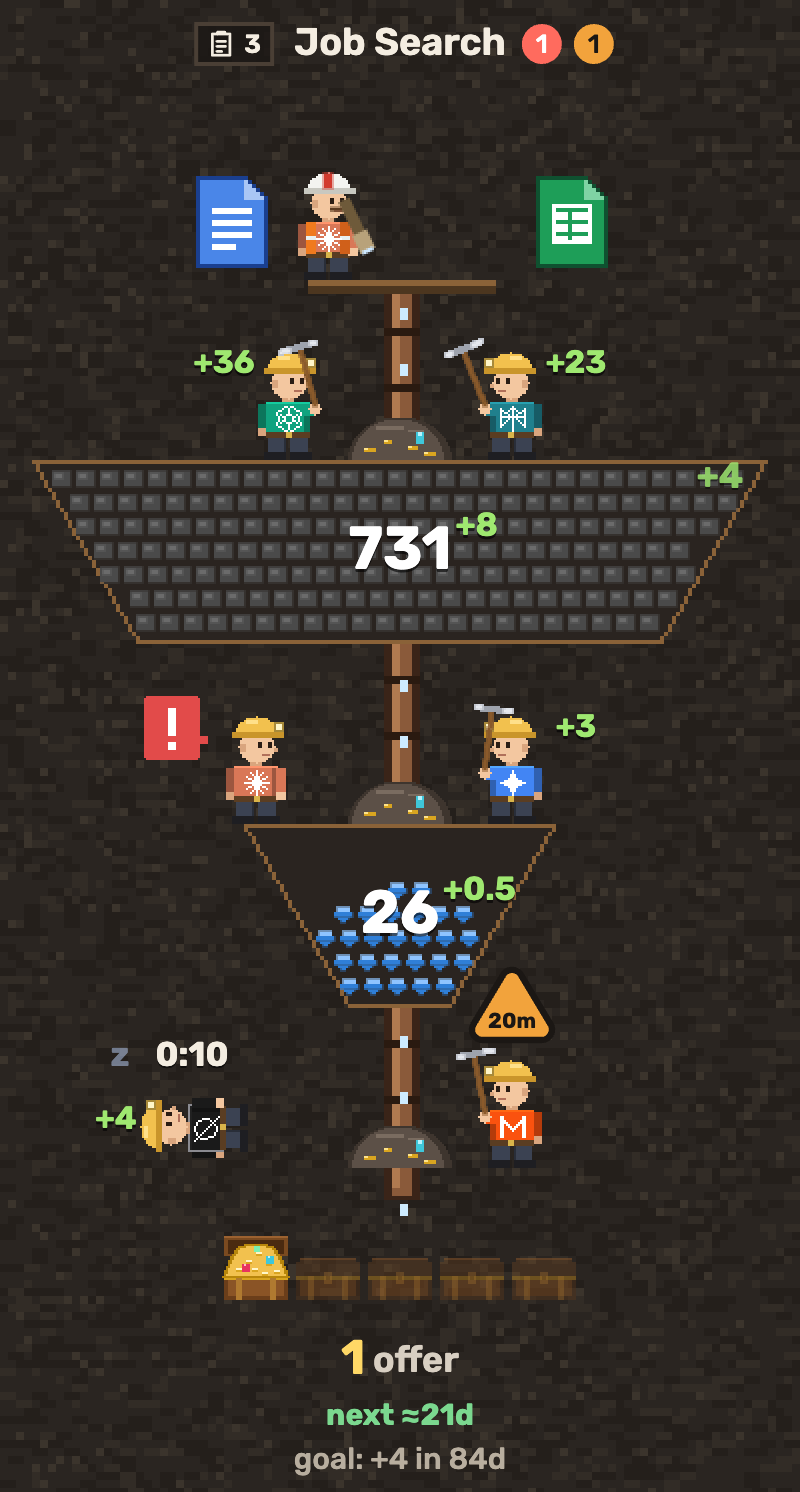
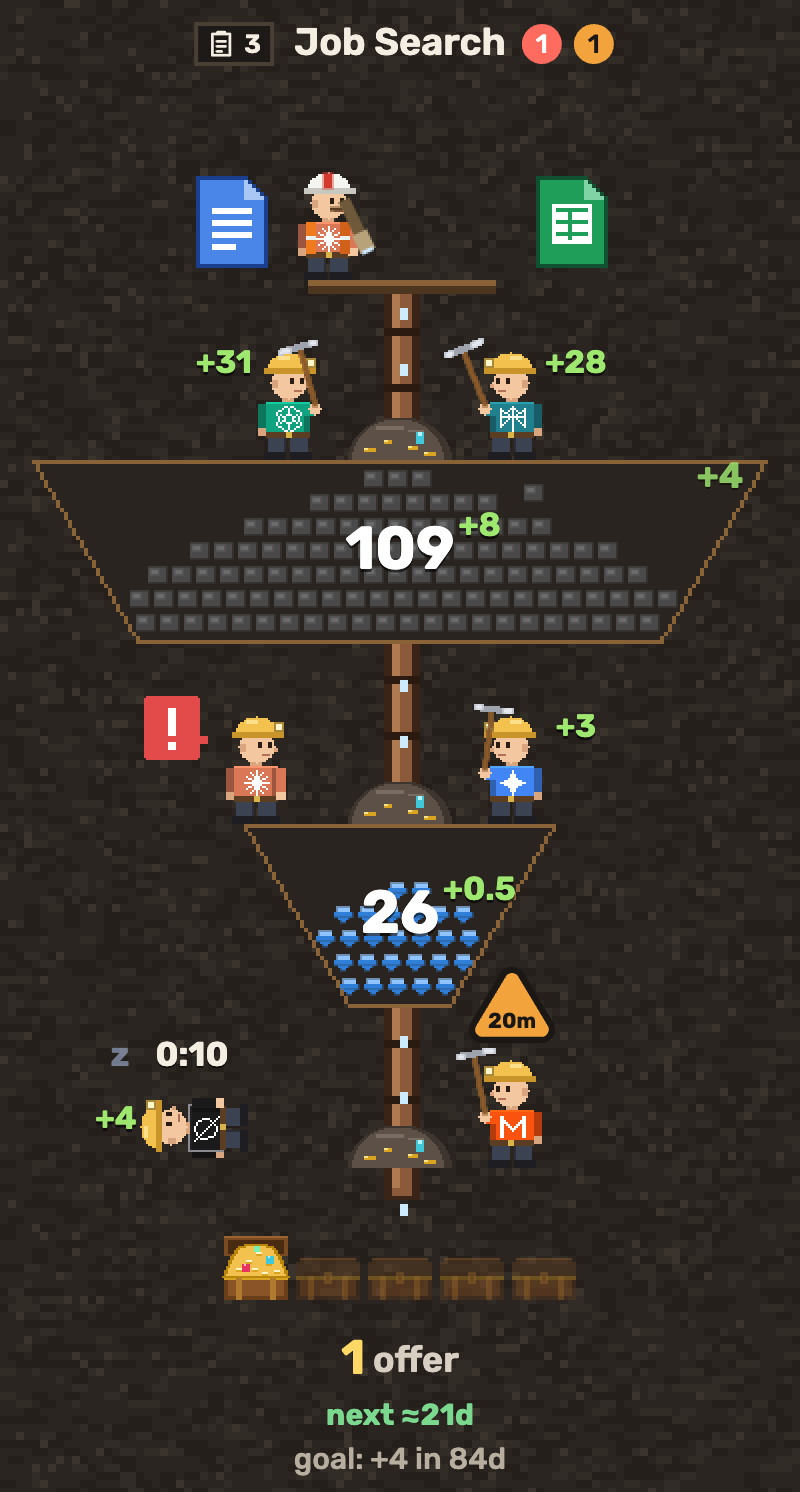
Explained funnel's top tank starts at 50, so the pictures show it filling rather than full

Changed region(s): [[0.0625, 0.3083, 0.9375, 0.4008], [0.25, 0.2158, 0.3125, 0.2466], [0.7188, 0.2158, 0.75, 0.2466]]

diff --git a/pricing/index.html b/pricing/index.html
@@ -23,7 +23,7 @@
   <link rel="preconnect" href="https://fonts.googleapis.com">
   <link rel="preconnect" href="https://fonts.gstatic.com" crossorigin>
   <link href="https://fonts.googleapis.com/css2?family=Tiny5&family=Rubik:wght@400;500;600;700&family=Noto+Sans+SC:wght@400;500;700&family=Noto+Sans+Thai:wght@400;500;700&family=Be+Vietnam+Pro:wght@400;500;600;700&family=Noto+Sans+JP:wght@400;500;700&family=Noto+Sans+KR:wght@400;500;700&display=swap" rel="stylesheet">
-  <link rel="stylesheet" href="../site.css?v=9415e8eb">
+  <link rel="stylesheet" href="../site.css?v=47b04410">
 </head>
 <body>
   <div class="wrap">
@@ -80,7 +80,7 @@
       <span><a href="https://github.com/oponfil/goalcraft/blob/main/docs/MCP.md" target="_blank" rel="noopener" data-i18n="footer.docs">Docs</a> · <a href="../deck/" target="_blank" rel="noopener" data-i18n="footer.deck">Pitch deck</a> · <a href="../privacy/" data-i18n="footer.privacy">Privacy</a> · <a href="../terms/" data-i18n="footer.terms">Terms</a> · <a href="../contact/" data-i18n="footer.contact">Contact</a> · <a class="gh" href="https://github.com/oponfil/goalcraft" target="_blank" rel="noopener" aria-label="GitHub" title="GitHub"><svg viewBox="0 0 16 16" width="16" height="16" aria-hidden="true"><path fill="currentColor" d="M8 0C3.58 0 0 3.58 0 8c0 3.54 2.29 6.53 5.47 7.59.4.07.55-.17.55-.38 0-.19-.01-.82-.01-1.49-2.01.37-2.53-.49-2.69-.94-.09-.23-.48-.94-.82-1.13-.28-.15-.68-.52-.01-.53.63-.01 1.08.58 1.23.82.72 1.21 1.87.87 2.33.66.07-.52.28-.87.51-1.07-1.78-.2-3.64-.89-3.64-3.95 0-.87.31-1.59.82-2.15-.08-.2-.36-1.02.08-2.12 0 0 .67-.21 2.2.82.64-.18 1.32-.27 2-.27.68 0 1.36.09 2 .27 1.53-1.04 2.2-.82 2.2-.82.44 1.1.16 1.92.08 2.12.51.56.82 1.27.82 2.15 0 3.07-1.87 3.75-3.65 3.95.29.25.54.73.54 1.48 0 1.07-.01 1.93-.01 2.2 0 .21.15.46.55.38A8.013 8.013 0 0016 8c0-4.42-3.58-8-8-8z"/></svg></a></span>
     </footer>
   </div>
-  <script type="module" src="../src/nav.js?v=9415e8eb"></script>
-  <script type="module" src="../src/pricing.js?v=9415e8eb"></script>
+  <script type="module" src="../src/nav.js?v=47b04410"></script>
+  <script type="module" src="../src/pricing.js?v=47b04410"></script>
 </body>
 </html>

diff --git a/index.html b/index.html
@@ -23,7 +23,7 @@
   <link rel="preconnect" href="https://fonts.googleapis.com">
   <link rel="preconnect" href="https://fonts.gstatic.com" crossorigin>
   <link href="https://fonts.googleapis.com/css2?family=Tiny5&family=Rubik:wght@400;500;600;700&family=Noto+Sans+SC:wght@400;500;700&family=Noto+Sans+Thai:wght@400;500;700&family=Be+Vietnam+Pro:wght@400;500;600;700&family=Noto+Sans+JP:wght@400;500;700&family=Noto+Sans+KR:wght@400;500;700&display=swap" rel="stylesheet">
-  <link rel="stylesheet" href="site.css?v=9415e8eb">
+  <link rel="stylesheet" href="site.css?v=47b04410">
 </head>
 <body>
   <div class="wrap">
@@ -83,7 +83,7 @@
       <span><a href="https://github.com/oponfil/goalcraft/blob/main/docs/MCP.md" target="_blank" rel="noopener" data-i18n="footer.docs">Docs</a> · <a href="deck/" target="_blank" rel="noopener" data-i18n="footer.deck">Pitch deck</a> · <a href="privacy/" data-i18n="footer.privacy">Privacy</a> · <a href="terms/" data-i18n="footer.terms">Terms</a> · <a href="contact/" data-i18n="footer.contact">Contact</a> · <a class="gh" href="https://github.com/oponfil/goalcraft" target="_blank" rel="noopener" aria-label="GitHub" title="GitHub"><svg viewBox="0 0 16 16" width="16" height="16" aria-hidden="true"><path fill="currentColor" d="M8 0C3.58 0 0 3.58 0 8c0 3.54 2.29 6.53 5.47 7.59.4.07.55-.17.55-.38 0-.19-.01-.82-.01-1.49-2.01.37-2.53-.49-2.69-.94-.09-.23-.48-.94-.82-1.13-.28-.15-.68-.52-.01-.53.63-.01 1.08.58 1.23.82.72 1.21 1.87.87 2.33.66.07-.52.28-.87.51-1.07-1.78-.2-3.64-.89-3.64-3.95 0-.87.31-1.59.82-2.15-.08-.2-.36-1.02.08-2.12 0 0 .67-.21 2.2.82.64-.18 1.32-.27 2-.27.68 0 1.36.09 2 .27 1.53-1.04 2.2-.82 2.2-.82.44 1.1.16 1.92.08 2.12.51.56.82 1.27.82 2.15 0 3.07-1.87 3.75-3.65 3.95.29.25.54.73.54 1.48 0 1.07-.01 1.93-.01 2.2 0 .21.15.46.55.38A8.013 8.013 0 0016 8c0-4.42-3.58-8-8-8z"/></svg></a></span>
     </footer>
   </div>
-  <script type="module" src="src/nav.js?v=9415e8eb"></script>
-  <script type="module" src="src/guide-live.js?v=9415e8eb"></script>
+  <script type="module" src="src/nav.js?v=47b04410"></script>
+  <script type="module" src="src/guide-live.js?v=47b04410"></script>
 </body>
 </html>

diff --git a/app/index.html b/app/index.html
@@ -12,7 +12,7 @@
   <link rel="preconnect" href="https://fonts.googleapis.com">
   <link rel="preconnect" href="https://fonts.gstatic.com" crossorigin>
   <link href="https://fonts.googleapis.com/css2?family=Tiny5&family=Rubik:wght@400;500;600;700&family=Noto+Sans+SC:wght@400;500;700&family=Noto+Sans+Thai:wght@400;500;700&family=Be+Vietnam+Pro:wght@400;500;600;700&family=Noto+Sans+JP:wght@400;500;700&family=Noto+Sans+KR:wght@400;500;700&display=swap" rel="stylesheet">
-  <link rel="stylesheet" href="../dashboard.css?v=9415e8eb">
+  <link rel="stylesheet" href="../dashboard.css?v=47b04410">
 </head>
 <body>
   <nav class="sitebar">
@@ -40,12 +40,12 @@
   <div id="pop" hidden></div>
 
   <script type="module">
-    import { supabase } from '../src/auth.js?v=9415e8eb';
-    import { setUpConnect } from '../src/connect.js?v=9415e8eb';
-    import { loadFunnels, answer, sendMessage, watch, runs, closeReplies, history as stageHistory } from '../src/live.js?v=9415e8eb';
-    import { mountDashboard } from '../src/dashboard.js?v=9415e8eb';
-    import { account } from '../src/billing.js?v=9415e8eb';
-    import { t, fmtDuration, lang } from '../src/i18n.js?v=9415e8eb';
+    import { supabase } from '../src/auth.js?v=47b04410';
+    import { setUpConnect } from '../src/connect.js?v=47b04410';
+    import { loadFunnels, answer, sendMessage, watch, runs, closeReplies, history as stageHistory } from '../src/live.js?v=47b04410';
+    import { mountDashboard } from '../src/dashboard.js?v=47b04410';
+    import { account } from '../src/billing.js?v=47b04410';
+    import { t, fmtDuration, lang } from '../src/i18n.js?v=47b04410';
 
     // Coming back from an email link, supabase-js reads the session from the URL.
     const { data: { session } } = await supabase.auth.getSession();
@@ -125,6 +125,6 @@
       document.addEventListener('focusout', () => { if (pending) refresh(); });
     }
   </script>
-  <script type="module" src="../src/nav.js?v=9415e8eb"></script>
+  <script type="module" src="../src/nav.js?v=47b04410"></script>
 </body>
 </html>

diff --git a/contact/index.html b/contact/index.html
@@ -23,7 +23,7 @@
   <link rel="preconnect" href="https://fonts.googleapis.com">
   <link rel="preconnect" href="https://fonts.gstatic.com" crossorigin>
   <link href="https://fonts.googleapis.com/css2?family=Tiny5&family=Rubik:wght@400;500;600;700&family=Noto+Sans+SC:wght@400;500;700&family=Noto+Sans+Thai:wght@400;500;700&family=Be+Vietnam+Pro:wght@400;500;600;700&family=Noto+Sans+JP:wght@400;500;700&family=Noto+Sans+KR:wght@400;500;700&display=swap" rel="stylesheet">
-  <link rel="stylesheet" href="../site.css?v=9415e8eb">
+  <link rel="stylesheet" href="../site.css?v=47b04410">
 </head>
 <body>
   <div class="wrap">
@@ -52,6 +52,6 @@
       <span><a href="https://github.com/oponfil/goalcraft/blob/main/docs/MCP.md" target="_blank" rel="noopener" data-i18n="footer.docs">Docs</a> · <a href="../deck/" target="_blank" rel="noopener" data-i18n="footer.deck">Pitch deck</a> · <a href="../privacy/" data-i18n="footer.privacy">Privacy</a> · <a href="../terms/" data-i18n="footer.terms">Terms</a> · <a href="../contact/" data-i18n="footer.contact">Contact</a> · <a class="gh" href="https://github.com/oponfil/goalcraft" target="_blank" rel="noopener" aria-label="GitHub" title="GitHub"><svg viewBox="0 0 16 16" width="16" height="16" aria-hidden="true"><path fill="currentColor" d="M8 0C3.58 0 0 3.58 0 8c0 3.54 2.29 6.53 5.47 7.59.4.07.55-.17.55-.38 0-.19-.01-.82-.01-1.49-2.01.37-2.53-.49-2.69-.94-.09-.23-.48-.94-.82-1.13-.28-.15-.68-.52-.01-.53.63-.01 1.08.58 1.23.82.72 1.21 1.87.87 2.33.66.07-.52.28-.87.51-1.07-1.78-.2-3.64-.89-3.64-3.95 0-.87.31-1.59.82-2.15-.08-.2-.36-1.02.08-2.12 0 0 .67-.21 2.2.82.64-.18 1.32-.27 2-.27.68 0 1.36.09 2 .27 1.53-1.04 2.2-.82 2.2-.82.44 1.1.16 1.92.08 2.12.51.56.82 1.27.82 2.15 0 3.07-1.87 3.75-3.65 3.95.29.25.54.73.54 1.48 0 1.07-.01 1.93-.01 2.2 0 .21.15.46.55.38A8.013 8.013 0 0016 8c0-4.42-3.58-8-8-8z"/></svg></a></span>
     </footer>
   </div>
-  <script type="module" src="../src/nav.js?v=9415e8eb"></script>
+  <script type="module" src="../src/nav.js?v=47b04410"></script>
 </body>
 </html>

diff --git a/privacy/index.html b/privacy/index.html
@@ -23,7 +23,7 @@
   <link rel="preconnect" href="https://fonts.googleapis.com">
   <link rel="preconnect" href="https://fonts.gstatic.com" crossorigin>
   <link href="https://fonts.googleapis.com/css2?family=Tiny5&family=Rubik:wght@400;500;600;700&family=Noto+Sans+SC:wght@400;500;700&family=Noto+Sans+Thai:wght@400;500;700&family=Be+Vietnam+Pro:wght@400;500;600;700&family=Noto+Sans+JP:wght@400;500;700&family=Noto+Sans+KR:wght@400;500;700&display=swap" rel="stylesheet">
-  <link rel="stylesheet" href="../site.css?v=9415e8eb">
+  <link rel="stylesheet" href="../site.css?v=47b04410">
 </head>
 <body>
   <div class="wrap">
@@ -61,6 +61,6 @@
       <span><a href="https://github.com/oponfil/goalcraft/blob/main/docs/MCP.md" target="_blank" rel="noopener" data-i18n="footer.docs">Docs</a> · <a href="../deck/" target="_blank" rel="noopener" data-i18n="footer.deck">Pitch deck</a> · <a href="../privacy/" data-i18n="footer.privacy">Privacy</a> · <a href="../terms/" data-i18n="footer.terms">Terms</a> · <a href="../contact/" data-i18n="footer.contact">Contact</a> · <a class="gh" href="https://github.com/oponfil/goalcraft" target="_blank" rel="noopener" aria-label="GitHub" title="GitHub"><svg viewBox="0 0 16 16" width="16" height="16" aria-hidden="true"><path fill="currentColor" d="M8 0C3.58 0 0 3.58 0 8c0 3.54 2.29 6.53 5.47 7.59.4.07.55-.17.55-.38 0-.19-.01-.82-.01-1.49-2.01.37-2.53-.49-2.69-.94-.09-.23-.48-.94-.82-1.13-.28-.15-.68-.52-.01-.53.63-.01 1.08.58 1.23.82.72 1.21 1.87.87 2.33.66.07-.52.28-.87.51-1.07-1.78-.2-3.64-.89-3.64-3.95 0-.87.31-1.59.82-2.15-.08-.2-.36-1.02.08-2.12 0 0 .67-.21 2.2.82.64-.18 1.32-.27 2-.27.68 0 1.36.09 2 .27 1.53-1.04 2.2-.82 2.2-.82.44 1.1.16 1.92.08 2.12.51.56.82 1.27.82 2.15 0 3.07-1.87 3.75-3.65 3.95.29.25.54.73.54 1.48 0 1.07-.01 1.93-.01 2.2 0 .21.15.46.55.38A8.013 8.013 0 0016 8c0-4.42-3.58-8-8-8z"/></svg></a></span>
     </footer>
   </div>
-  <script type="module" src="../src/nav.js?v=9415e8eb"></script>
+  <script type="module" src="../src/nav.js?v=47b04410"></script>
 </body>
 </html>

diff --git a/terms/index.html b/terms/index.html
@@ -23,7 +23,7 @@
   <link rel="preconnect" href="https://fonts.googleapis.com">
   <link rel="preconnect" href="https://fonts.gstatic.com" crossorigin>
   <link href="https://fonts.googleapis.com/css2?family=Tiny5&family=Rubik:wght@400;500;600;700&family=Noto+Sans+SC:wght@400;500;700&family=Noto+Sans+Thai:wght@400;500;700&family=Be+Vietnam+Pro:wght@400;500;600;700&family=Noto+Sans+JP:wght@400;500;700&family=Noto+Sans+KR:wght@400;500;700&display=swap" rel="stylesheet">
-  <link rel="stylesheet" href="../site.css?v=9415e8eb">
+  <link rel="stylesheet" href="../site.css?v=47b04410">
 </head>
 <body>
   <div class="wrap">
@@ -71,6 +71,6 @@
       <span><a href="https://github.com/oponfil/goalcraft/blob/main/docs/MCP.md" target="_blank" rel="noopener" data-i18n="footer.docs">Docs</a> · <a href="../deck/" target="_blank" rel="noopener" data-i18n="footer.deck">Pitch deck</a> · <a href="../privacy/" data-i18n="footer.privacy">Privacy</a> · <a href="../terms/" data-i18n="footer.terms">Terms</a> · <a href="../contact/" data-i18n="footer.contact">Contact</a> · <a class="gh" href="https://github.com/oponfil/goalcraft" target="_blank" rel="noopener" aria-label="GitHub" title="GitHub"><svg viewBox="0 0 16 16" width="16" height="16" aria-hidden="true"><path fill="currentColor" d="M8 0C3.58 0 0 3.58 0 8c0 3.54 2.29 6.53 5.47 7.59.4.07.55-.17.55-.38 0-.19-.01-.82-.01-1.49-2.01.37-2.53-.49-2.69-.94-.09-.23-.48-.94-.82-1.13-.28-.15-.68-.52-.01-.53.63-.01 1.08.58 1.23.82.72 1.21 1.87.87 2.33.66.07-.52.28-.87.51-1.07-1.78-.2-3.64-.89-3.64-3.95 0-.87.31-1.59.82-2.15-.08-.2-.36-1.02.08-2.12 0 0 .67-.21 2.2.82.64-.18 1.32-.27 2-.27.68 0 1.36.09 2 .27 1.53-1.04 2.2-.82 2.2-.82.44 1.1.16 1.92.08 2.12.51.56.82 1.27.82 2.15 0 3.07-1.87 3.75-3.65 3.95.29.25.54.73.54 1.48 0 1.07-.01 1.93-.01 2.2 0 .21.15.46.55.38A8.013 8.013 0 0016 8c0-4.42-3.58-8-8-8z"/></svg></a></span>
     </footer>
   </div>
-  <script type="module" src="../src/nav.js?v=9415e8eb"></script>
+  <script type="module" src="../src/nav.js?v=47b04410"></script>
 </body>
 </html>

diff --git a/login/index.html b/login/index.html
@@ -12,7 +12,7 @@
   <link rel="preconnect" href="https://fonts.googleapis.com">
   <link rel="preconnect" href="https://fonts.gstatic.com" crossorigin>
   <link href="https://fonts.googleapis.com/css2?family=Tiny5&family=Rubik:wght@400;500;600;700&family=Noto+Sans+SC:wght@400;500;700&family=Noto+Sans+Thai:wght@400;500;700&family=Be+Vietnam+Pro:wght@400;500;600;700&family=Noto+Sans+JP:wght@400;500;700&family=Noto+Sans+KR:wght@400;500;700&display=swap" rel="stylesheet">
-  <link rel="stylesheet" href="../site.css?v=9415e8eb">
+  <link rel="stylesheet" href="../site.css?v=47b04410">
 </head>
 <body>
   <div class="wrap">
@@ -51,9 +51,9 @@
   </div>
 
   <script type="module">
-    import { supabase, afterSignIn } from '../src/auth.js?v=9415e8eb';
-    import { GOOGLE_CLIENT_ID } from '../src/config.js?v=9415e8eb';
-    import { t, lang } from '../src/i18n.js?v=9415e8eb';
+    import { supabase, afterSignIn } from '../src/auth.js?v=47b04410';
+    import { GOOGLE_CLIENT_ID } from '../src/config.js?v=47b04410';
+    import { t, lang } from '../src/i18n.js?v=47b04410';
 
     const msg = document.getElementById('msg');
     const say = (text, kind = '') => { msg.textContent = text; msg.className = 'msg ' + kind; };
@@ -165,6 +165,6 @@
       else say(t('login.sendFailed'), 'error');
     });
   </script>
-  <script type="module" src="../src/nav.js?v=9415e8eb"></script>
+  <script type="module" src="../src/nav.js?v=47b04410"></script>
 </body>
 </html>

diff --git a/tools/render-docs.js b/tools/render-docs.js
@@ -1,12 +1,12 @@
 // Renders the README pictures (agents sheet, theme samples, the board) and the link preview card from the same drawing code as
 // the dashboard and saves them through serve.py: open http://localhost:5173/tools/render-docs.html
 // (always in English: the page adds ?lang=en to itself).
-import { AGENTS, FUNNELS } from '../src/data.js?v=9415e8eb';
-import { Scene, CW, drawWork, TOOL_PERIOD } from '../src/scene.js?v=9415e8eb';
-import { guideScene, guideHeight, drawGuide, TH } from '../src/guide.js?v=9415e8eb';
+import { AGENTS, FUNNELS } from '../src/data.js?v=47b04410';
+import { Scene, CW, drawWork, TOOL_PERIOD } from '../src/scene.js?v=47b04410';
+import { guideScene, guideHeight, drawGuide, TH } from '../src/guide.js?v=47b04410';
 import { GIFEncoder, quantize, applyPalette } from 'https://cdn.jsdelivr.net/npm/gifenc@1.0.3/dist/gifenc.esm.js';
-import { THEMES } from '../src/themes.js?v=9415e8eb';
-import { drawStanding, drawPickaxe, drawShears, drawBeaker, drawBow, drawArrow, drawLaptop, drawStamp, drawHammer, drawSword, drawRollingPin } from '../src/sprites.js?v=9415e8eb';
+import { THEMES } from '../src/themes.js?v=47b04410';
+import { drawStanding, drawPickaxe, drawShears, drawBeaker, drawBow, drawArrow, drawLaptop, drawStamp, drawHammer, drawSword, drawRollingPin } from '../src/sprites.js?v=47b04410';
 
 const FONT = 'Rubik, system-ui, sans-serif';
 

diff --git a/oauth/consent/index.html b/oauth/consent/index.html
@@ -13,7 +13,7 @@
   <link rel="preconnect" href="https://fonts.googleapis.com">
   <link rel="preconnect" href="https://fonts.gstatic.com" crossorigin>
   <link href="https://fonts.googleapis.com/css2?family=Tiny5&family=Rubik:wght@400;500;600;700&family=Noto+Sans+SC:wght@400;500;700&family=Noto+Sans+Thai:wght@400;500;700&family=Be+Vietnam+Pro:wght@400;500;600;700&family=Noto+Sans+JP:wght@400;500;700&family=Noto+Sans+KR:wght@400;500;700&display=swap" rel="stylesheet">
-  <link rel="stylesheet" href="../../site.css?v=9415e8eb">
+  <link rel="stylesheet" href="../../site.css?v=47b04410">
 </head>
 <body>
   <div class="wrap">
@@ -29,8 +29,8 @@
   <script type="module">
     // OAuth consent: Supabase Auth sends the person here with ?authorization_id= when an agent
     // (Claude, ChatGPT, Cursor…) asks to connect to their Goalcraft.
-    import { supabase, siteUrl } from '../../src/auth.js?v=9415e8eb';
-    import { t } from '../../src/i18n.js?v=9415e8eb';
+    import { supabase, siteUrl } from '../../src/auth.js?v=47b04410';
+    import { t } from '../../src/i18n.js?v=47b04410';
 
     const card = document.getElementById('card');
     const esc = s => String(s ?? '').replace(/[&<>"']/g, c => `&#${c.charCodeAt(0)};`);

diff --git a/src/guide.js b/src/guide.js
@@ -1,8 +1,8 @@
 // The funnel the landing page and the README explain: the demo's Job Search cut to two stages,
 // with an agent in each state the labels point at. They stay in their states, so the labels always
 // point at them. The landing page runs it live; tools/render-docs.js records it.
-import { FUNNELS } from './data.js?v=9415e8eb';
-import { Scene, CW } from './scene.js?v=9415e8eb';
+import { FUNNELS } from './data.js?v=47b04410';
+import { Scene, CW } from './scene.js?v=47b04410';
 
 export const TH = 22;  // the title strip over the funnel, in scene units
 const FONT = 'Rubik, system-ui, sans-serif';
@@ -11,7 +11,9 @@ export function guideScene() {
   const job = FUNNELS[0];
   const f0 = {
     ...job,
-    stages: [job.stages[0], job.stages[3]],
+    // The top tank (179 pieces when full) starts at 50: about 110 when the README pictures are taken,
+    // so the pieces dropping in show it fill up.
+    stages: [{ ...job.stages[0], count: 50 }, job.stages[3]],
     flows: [job.flows[0], job.flows[3], job.flows[5]],
     workers: [
       { agent: 'chatgpt', zone: -1, state: 'work', keep: true }, { agent: 'perplexity', zone: -1, state: 'work', keep: true },

diff --git a/src/scene.js b/src/scene.js
@@ -1,7 +1,7 @@
-import { agentInfo, plural } from './data.js?v=9415e8eb';
-import { drawStanding, drawLying, drawBoss, drawBossLying, drawSpyglass, drawPickaxe, drawShears, drawBeaker, drawBow, drawArrow, drawLaptop, drawStamp, drawHammer, drawSword, drawRollingPin, drawBubble, BUBBLE_STEP, HEAD_TOP, BOSS_TOP, line, P, MINER_H } from './sprites.js?v=9415e8eb';
-import { themeOf } from './themes.js?v=9415e8eb';
-import { t as tr, lang, fmtDuration, flowUnit } from './i18n.js?v=9415e8eb';
+import { agentInfo, plural } from './data.js?v=47b04410';
+import { drawStanding, drawLying, drawBoss, drawBossLying, drawSpyglass, drawPickaxe, drawShears, drawBeaker, drawBow, drawArrow, drawLaptop, drawStamp, drawHammer, drawSword, drawRollingPin, drawBubble, BUBBLE_STEP, HEAD_TOP, BOSS_TOP, line, P, MINER_H } from './sprites.js?v=47b04410';
+import { themeOf } from './themes.js?v=47b04410';
+import { t as tr, lang, fmtDuration, flowUnit } from './i18n.js?v=47b04410';
 
 // Logical (pixel-art) layout of one funnel column. Funnels have 2-5 tanks with a mining zone above
 // each tank and one more below the last (the output zone, where results come out into flasks).

diff --git a/src/nav.js b/src/nav.js
@@ -2,9 +2,9 @@
 // profile button (the Google photo, or a plain silhouette) whose menu holds the rarely used
 // settings: the language, email when an agent asks, and signing out. A signed-in person's language
 // is kept in their account too.
-import { account, openBilling } from './billing.js?v=9415e8eb';
-import { supabase, siteUrl } from './auth.js?v=9415e8eb';
-import { t, lang, chosen, LANGS, SHORT, setLang, onLangSaved, adoptLang, FLOW_UNITS, flowUnit, setFlowUnit, onFlowSaved } from './i18n.js?v=9415e8eb';
+import { account, openBilling } from './billing.js?v=47b04410';
+import { supabase, siteUrl } from './auth.js?v=47b04410';
+import { t, lang, chosen, LANGS, SHORT, setLang, onLangSaved, adoptLang, FLOW_UNITS, flowUnit, setFlowUnit, onFlowSaved } from './i18n.js?v=47b04410';
 
 // The profile button's picture for people without a Google photo.
 const SILHOUETTE = '<svg viewBox="0 0 24 24" width="20" height="20" fill="currentColor" aria-hidden="true"><circle cx="12" cy="8.5" r="4"/><path d="M4 20.5c0-4 3.6-6.5 8-6.5s8 2.5 8 6.5z"/></svg>';
